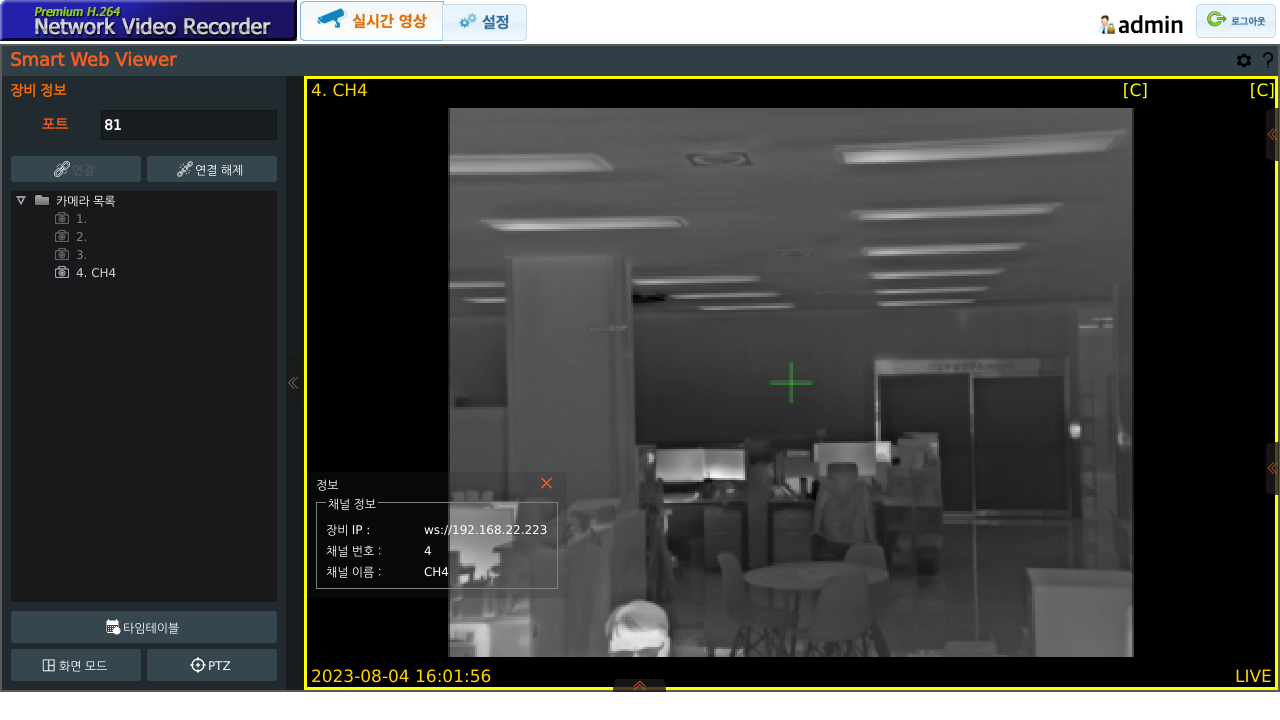
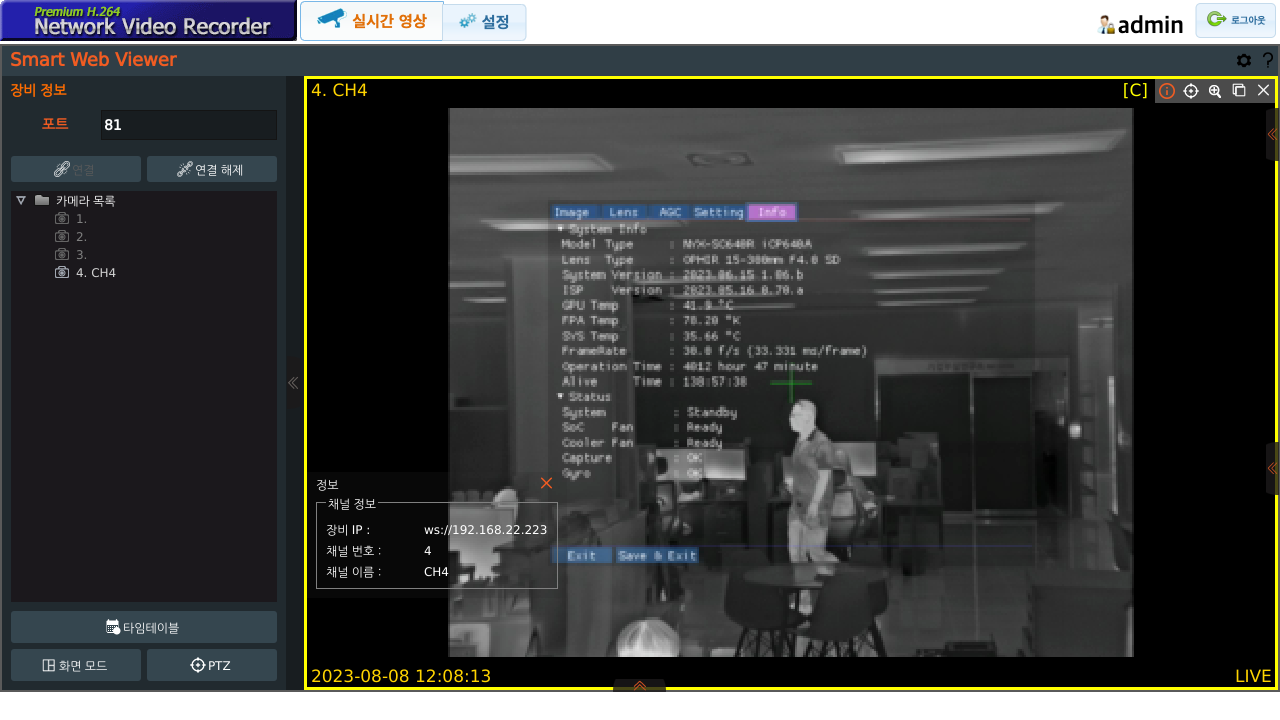
1) add function leftMenuOn_Off 2) have to implement func screenModeControl 3) add function mouseHoverWith_X_Y 4) add Live/Record View Testd

diff --git a/@UserFile/Login.ts b/@UserFile/Login.ts
@@ -36,6 +36,29 @@ export async function timeTable_On_Off(page: Page) {
 
 }
 
+export async function leftMenuOn_Off(page: Page, canvas: string) {
+    //Left Menu Off
+    await page.locator('#qtcanvas').click({
+        position: {
+            x: 297,
+            y: 340
+        }
+    });
+
+    //Wait For Smart Web Viewer
+    await page.waitForTimeout(500);
+
+    //Left Menu On
+    await page.locator('#qtcanvas').click({
+        position: {
+            x: 11,
+            y: 340
+        }
+    });
+}
+
+
+
 export async function canvasClickWith_X_Y(page: Page, canvas: string, x: number, y: number) {
     await page.locator(canvas).click({
         position: {
@@ -54,12 +77,22 @@ export async function canvas_Double_ClickWith_X_Y(page: Page, canvas: string, x:
     })
 }
 
-export async function keyPressWithCount(page: Page, keyStr: string, count: number) {
-    for (let i = 0; i < count; i+= 1) {
-        await page.keyboard.press(keyStr);    }
+export async function mouseHoverWith_X_Y(page: Page, canvas: string, x: number, y: number) {
+    await page.locator(canvas).hover({
+        position: {
+            x: x,
+            y: y
+        }
+    })
 }
 
-export async function changeTextField(page:Page, keyStr: string) {
+export async function keyPressWithCount(page: Page, keyStr: string, count: number) {
+    for (let i = 0; i < count; i += 1) {
+        await page.keyboard.press(keyStr);
+    }
+}
+
+export async function changeTextField(page: Page, keyStr: string) {
     await page.waitForTimeout(1000);
     await page.keyboard.type(keyStr);
 }
